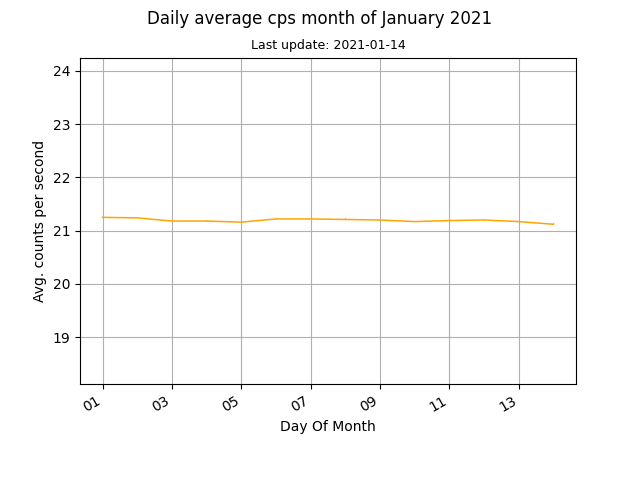
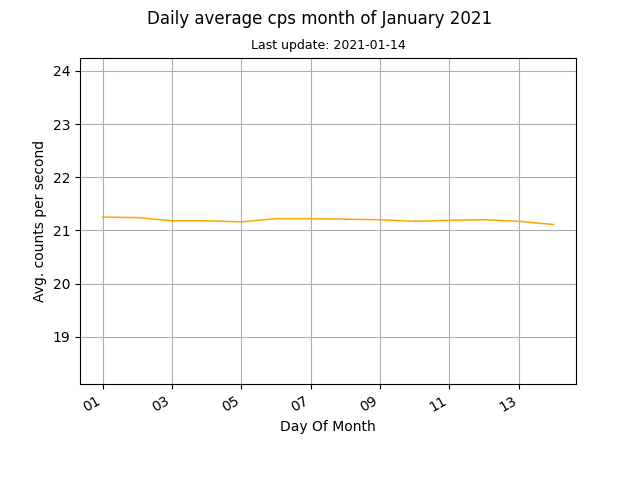
auto data update

Changed region(s): [[0.125, 0.4375, 0.9062, 0.5], [0.0938, 0.6875, 0.125, 0.7188]]

diff --git a/docs/index.html b/docs/index.html
@@ -45,8 +45,8 @@
 	
 	<br>
 	
-	<p>Current counts per second (cps): 21.18</p>
-	<p>Last update: 2021-01-14, 01:58</p>
+	<p>Current counts per second (cps): 21.05</p>
+	<p>Last update: 2021-01-14, 02:13</p>
 
 	<p><a href="images/monthly.png"><img src="images/monthly.png" alt="Mothly avg cps data"></a><a href="images/daily.png"><img src="images/daily.png" alt="Daily avg cps data"></a></p>
 	
